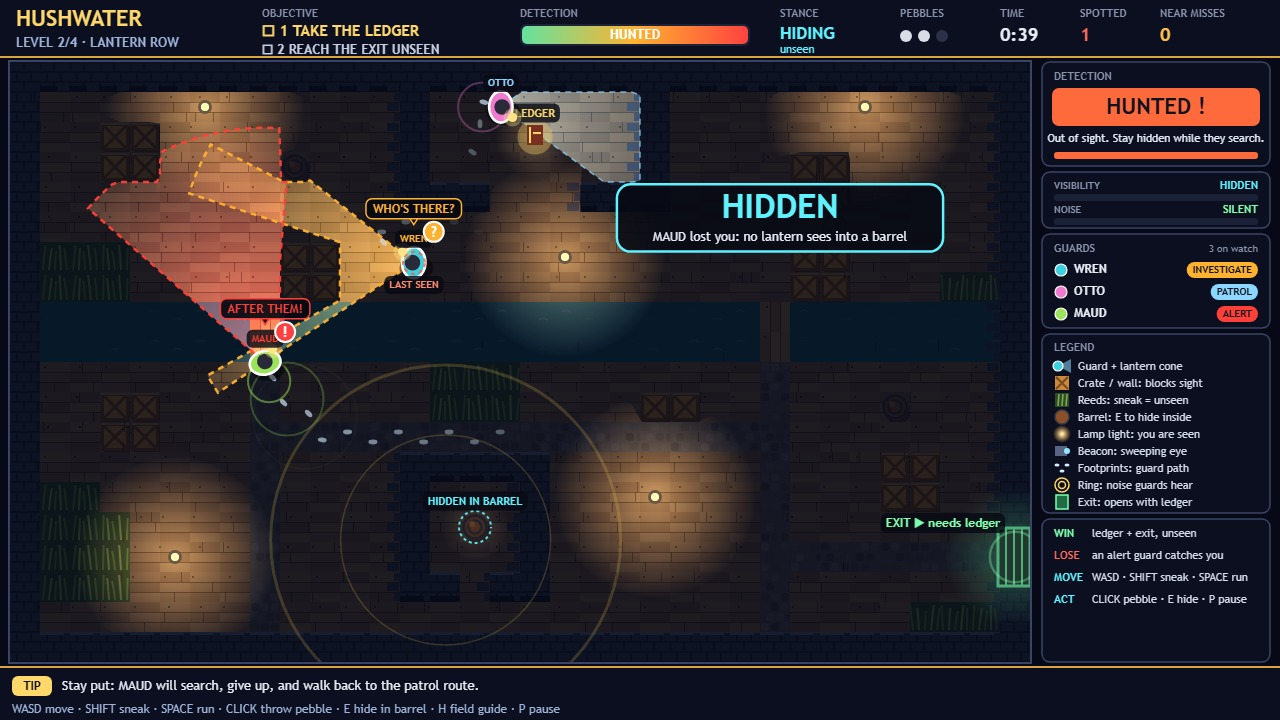
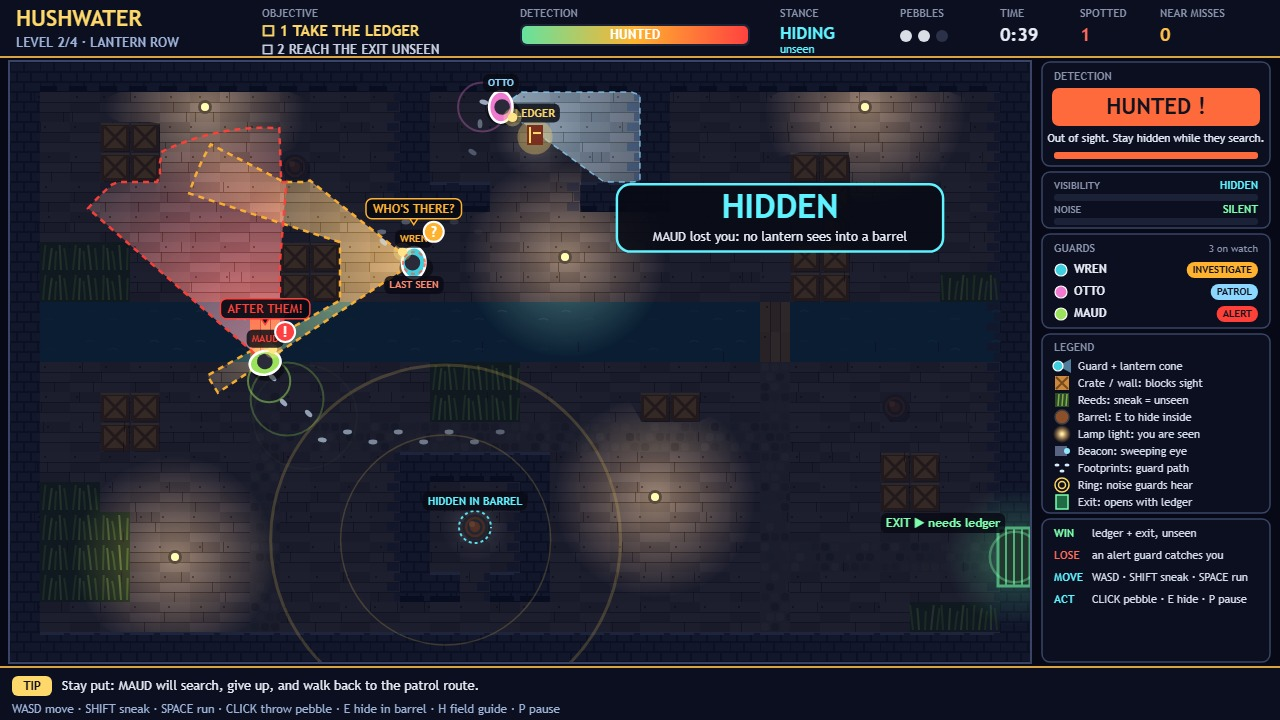
v4: weathered grey planks and bluer night so cones and cover read at a glance

diff --git a/game/src/render/lighting.js b/game/src/render/lighting.js
@@ -64,7 +64,7 @@ export function drawLighting(ctx, world, width, height, time) {
   const d = s.getContext('2d');
   d.globalCompositeOperation = 'source-over';
   d.clearRect(0, 0, width, height);
-  d.fillStyle = 'rgba(4,7,22,0.8)';
+  d.fillStyle = 'rgba(6,10,30,0.76)';
   d.fillRect(0, 0, width, height);
   d.globalCompositeOperation = 'destination-out';
   for (const lamp of world.map.lamps) {
@@ -91,7 +91,7 @@ export function drawLighting(ctx, world, width, height, time) {
   ctx.save();
   ctx.globalCompositeOperation = 'lighter';
   for (const lamp of world.map.lamps) {
-    ctx.fillStyle = radial(ctx, lamp.x, lamp.y, lamp.radius, 'rgba(255,170,70,0.28)', 'rgba(255,140,40,0)');
+    ctx.fillStyle = radial(ctx, lamp.x, lamp.y, lamp.radius, 'rgba(255,170,70,0.2)', 'rgba(255,140,40,0)');
     lampPolygon(ctx, lamp);
     ctx.fill();
   }

diff --git a/game/src/render/draw-level.js b/game/src/render/draw-level.js
@@ -13,7 +13,7 @@ function hash(x, y) {
 }
 
 function drawPlanks(ctx, x, y, tx, ty, bridge) {
-  const base = bridge ? ['#a2784a', '#93693f', '#ab8150'] : ['#7d6047', '#735740', '#86684c'];
+  const base = bridge ? ['#a2784a', '#93693f', '#ab8150'] : ['#5f5a5e', '#565156', '#676166'];
   for (let i = 0; i < 3; i += 1) {
     ctx.fillStyle = base[(i + tx + ty) % 3];
     if (bridge) ctx.fillRect(x + i * 10, y, 10, TILE);
